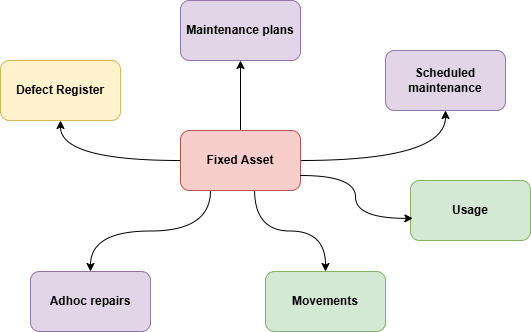
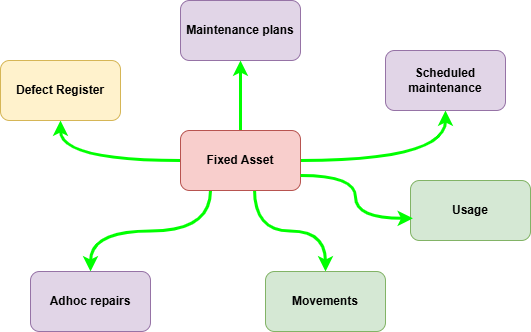
moving images

diff --git a/_includes/navigation.html b/_includes/navigation.html
@@ -4,4 +4,5 @@
     <li><a href="{{ 'MaintenancePlans' | relative_url }}">Maintenance Plans</a></li>
     <li><a href="{{ 'MaintenanceOrders' | relative_url }}">Maintenance Orders</a></li>
     <li><a href="{{ 'Transfers' | relative_url }}">Asset Transfers</a></li>    
+    <li><a href="{{ 'Utilisation' | relative_url }}">Asset Utilisation</a></li>    
     <li><a href="{{ '/Resources/WhatsNew' | relative_url }}">Release Notes</a></li>

diff --git a/Setup-Configuration.md b/Setup-Configuration.md
@@ -38,7 +38,7 @@ From FA Maintenance Setup, select 'Measurements'.
 From the Measurements list, add or edit the entries. 
 
 Example:
-![alt text](ScreenShots/image-1.png)
+![alt text](/Screenshots/image-1.png)
 
 ## Maintenance Actions
 From FA Maintenance Setup, select 'Maintenance Actions'.

diff --git a/index.md b/index.md
@@ -26,7 +26,7 @@ Generate purchase orders for maintenance activities.
 - Maintenance
   - [Maintenance Plans](MaintenancePlans.MD)
   - [Maintenance Orders](MaintenanceOrders.MD)
-- [Transfers](Transfers.MD)
+- [Asset Transfers](Transfers.MD)
 - [Defect Register](DefectRegister.MD)
 - [Asset Utilisation](Utilisation.MD)
 - [Ledgers](Ledgers.md)